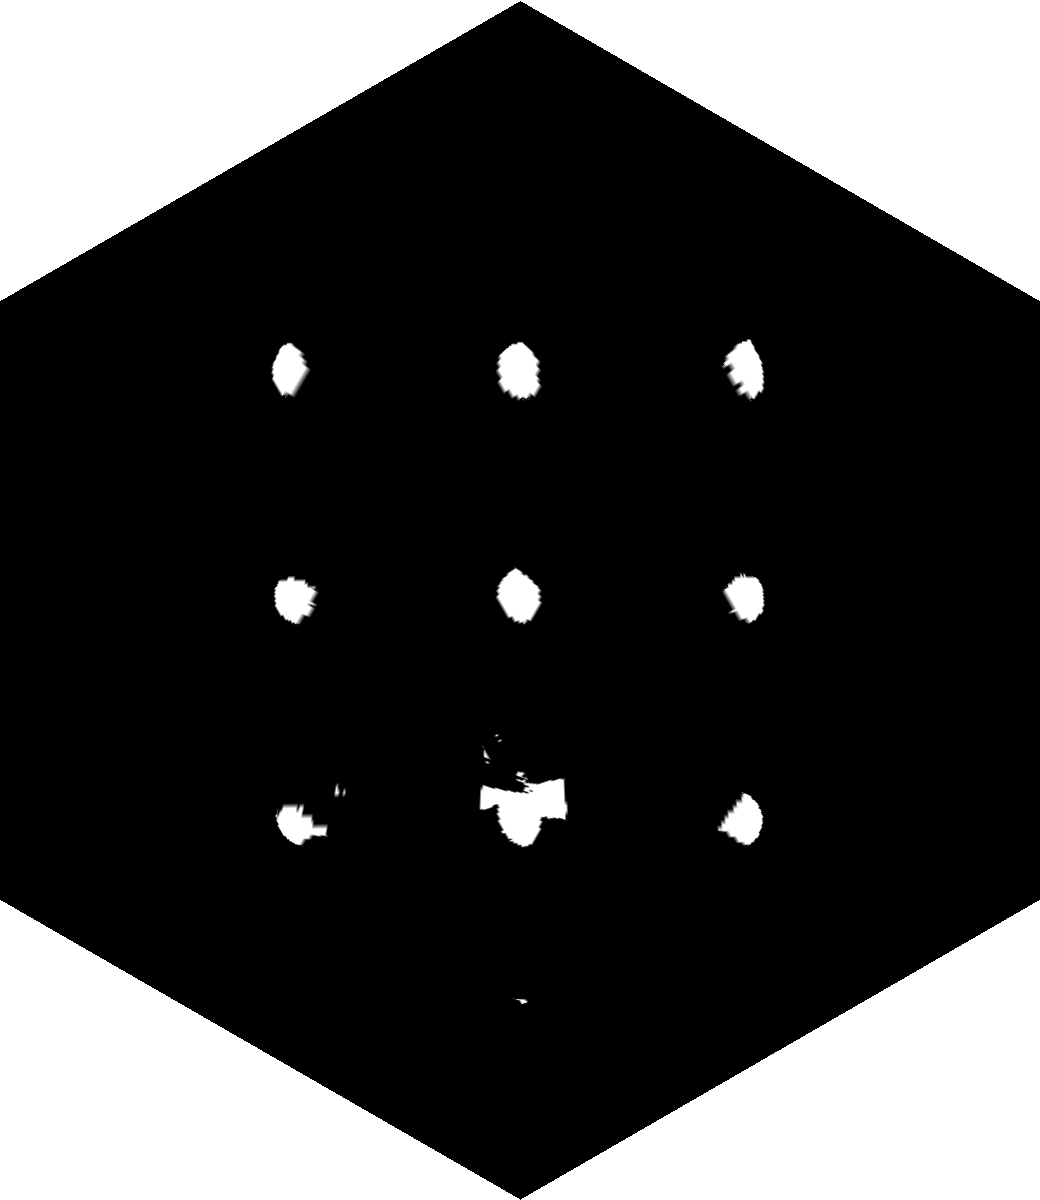
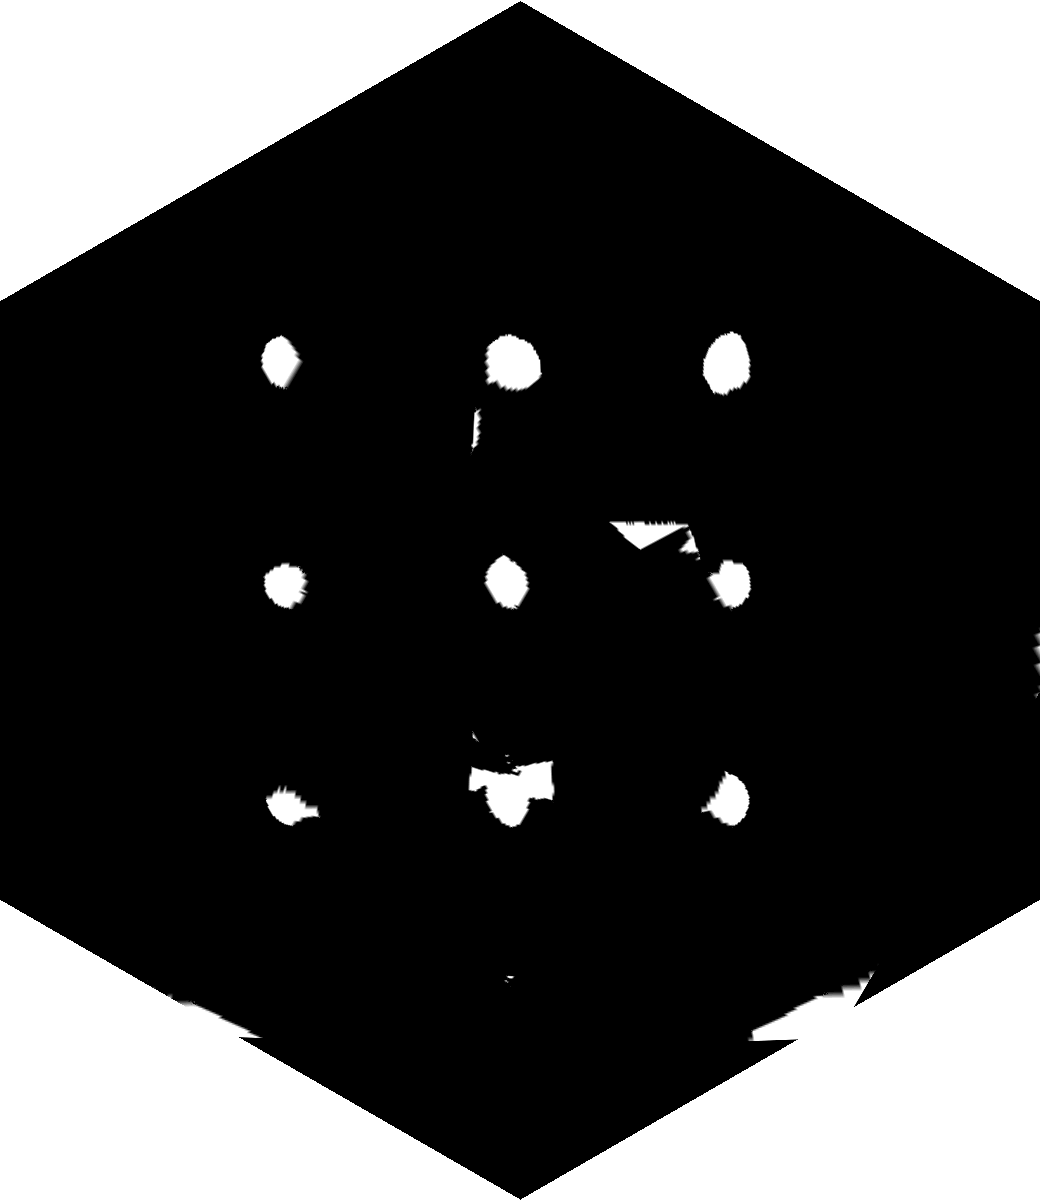
add global_map

diff --git a/computer_vision/global_map_generator/scripts/transform.py b/computer_vision/global_map_generator/scripts/transform.py
@@ -2,41 +2,41 @@ import cv2
 import numpy as np
 from matplotlib import pyplot as plt
 
-img_middle = cv2.imread('/home/ayoung/Downloads/point_label_img_00005.jpg')
+img_middle = cv2.imread('/home/snuzero/catkin_ws/src/zero_maker/computer_vision/global_map_generator/img_sample/cam1/point_label_img_00005.jpg')
 pts1 = np.float32([[88, 57], [320, 18], [551, 59], [320, 124]])
-pts2 = np.float32([[1040, 900], [520, 1200], [0, 900], [520, 600]])
+pts2 = np.float32([[1016, 879], [508, 1172], [0, 879], [508, 586]])
 
 M = cv2.getPerspectiveTransform(pts1, pts2)
 print("middle:")
 print(M)
 
-dst = cv2.warpPerspective(img_middle, M, (1040,1200))
+dst = cv2.warpPerspective(img_middle, M, (1016,1172))
 
 plt.imshow(dst)
 plt.show()
 
-img_right = cv2.imread('/home/ayoung/Downloads/point_label_img_00006.jpg')
+img_right = cv2.imread('/home/snuzero/catkin_ws/src/zero_maker/computer_vision/global_map_generator/img_sample/cam2/point_label_img_00006.jpg')
 pts1 = np.float32([[87, 54], [315, 17], [540, 55], [313, 118]])
-pts2 = np.float32([[520, 0], [1040, 300], [1040, 900], [520, 600]])
+pts2 = np.float32([[508, 0], [1016, 300], [1016, 879], [508, 586]])
 
 M = cv2.getPerspectiveTransform(pts1, pts2)
 print("right:")
 print(M)
 
-dst = cv2.warpPerspective(img_right, M, (1040,1200))
+dst = cv2.warpPerspective(img_right, M, (1016,1172))
 
 plt.imshow(dst)
 plt.show()
 
-img_left = cv2.imread('/home/ayoung/Downloads/point_label_img_00005(2).jpg')
+img_left = cv2.imread('/home/snuzero/catkin_ws/src/zero_maker/computer_vision/global_map_generator/img_sample/cam3/point_label_img_00005.jpg')
 pts1 = np.float32([[100, 55], [324, 17], [551, 54], [327, 118]])
-pts2 = np.float32([[0, 900], [0, 300], [520, 0], [520, 600]])
+pts2 = np.float32([[0, 879], [0, 300], [508, 0], [508, 586]])
 
 M = cv2.getPerspectiveTransform(pts1, pts2)
 print("left:")
 print(M)
 
-dst = cv2.warpPerspective(img_left, M, (1040,1200))
+dst = cv2.warpPerspective(img_left, M, (1016,1172))
 
 plt.imshow(dst)
 plt.show()

diff --git a/computer_vision/global_map_generator/src/global_map.cpp b/computer_vision/global_map_generator/src/global_map.cpp
@@ -153,11 +153,23 @@ void GlobalMapPublisher::global_map_callback(const global_map_generator::seg_msg
     /*imshow("img_middle", img_middle);
     imshow("img_right", img_right);
     imshow("img_left", img_left);*/
+
+    cv::imwrite(ros::package::getPath("global_map_generator") + "/img_middle.png", img_middle);
+    cv::imwrite(ros::package::getPath("global_map_generator") + "/img_right.png", img_right);
+    cv::imwrite(ros::package::getPath("global_map_generator") + "/img_left.png", img_left);
     
     cv::Mat middle_warped = birdeye(M_middle, img_middle);
     cv::Mat right_warped = birdeye(M_right, img_right);
     cv::Mat left_warped = birdeye(M_left, img_left);
 
+    cv::Mat middle_warped_resized, right_warped_resized, left_warped_resized;
+    cv::resize(middle_warped, middle_warped_resized, cv::Size(middle_warped.cols/2, middle_warped.rows/2 ), 0, 0, CV_INTER_NN );
+    cv::resize(right_warped, right_warped_resized, cv::Size(right_warped.cols/2, right_warped.rows/2 ), 0, 0, CV_INTER_NN );
+    cv::resize(left_warped, left_warped_resized, cv::Size(left_warped.cols/2, left_warped.rows/2 ), 0, 0, CV_INTER_NN );
+
+    imshow("middle", middle_warped_resized);
+    imshow("right", right_warped_resized);
+    imshow("left", left_warped_resized);
     cv::Mat global_map, global_map_vis;
 
     bitwise_and(middle_warped, right_warped, global_map);
